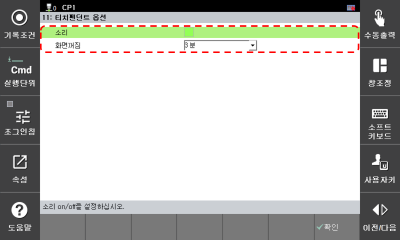
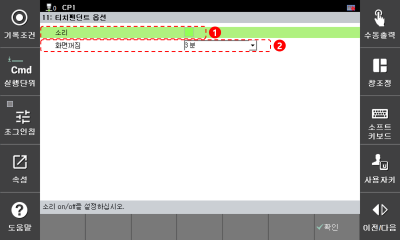
서비스 메뉴 설명 보완(앱(App), 티치펜던트 옵션, 산업용 통신 모니터링 추가) - 사진 교체

Changed region(s): [[0.09, 0.0875, 0.9, 0.2333]]

diff --git a/4-service/7-tp-option.md b/4-service/7-tp-option.md
@@ -14,13 +14,13 @@
   <tbody>
     <tr>
       <td style="text-align:left">
-        <img src="../../../_assets/c1.png" alt/>
+        <img src="../_assets/c1.png" alt/>
       </td>
       <td style="text-align:left">티치 펜던트의 소리 발생 여부를 선택합니다.</td>
     </tr>
     <tr>
       <td style="text-align:left">
-        <img src="../../../_assets/c2.png" alt/>
+        <img src="../_assets/c2.png" alt/>
       </td>
       <td style="text-align:left">티치펜던트의 화면이 꺼지는 시간을 선택합니다.</td>
     </tr>
